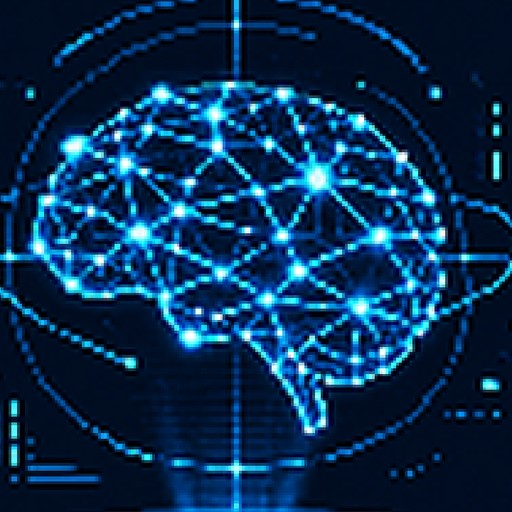
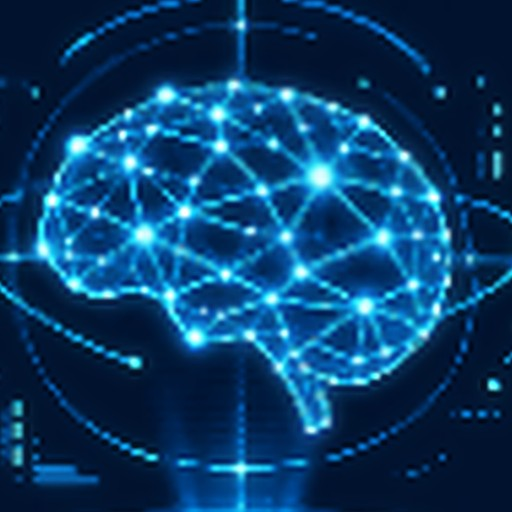
ARIA's picture: smooth hologram, no screen-door grid
Claude-Session: https://claude.ai/code/session_01QsU1qWh9Lm4CoQ2smq7FHb

diff --git a/docs/HANDOFF.md b/docs/HANDOFF.md
@@ -1,6 +1,6 @@
 # Handoff (read this first when a session starts; update it before parking)
 
-Last updated: 2026-11-27. Branch to work on: `tablet`. Repo: NickWest27/AquaNova (GitHub Pages path `/AquaNova/`). Last change: ARIA's picture rebuilt at the other portraits' pixel size (sampled on its 190x143 art grid, doubled smoothly; original kept as `art_src/crew/executiveOfficer_scene_v1.png`); held lines that already say Captain get no extra "Captain," in front; nav charts: the coast is a bold dark yellow (land), the 10 and 20 m contours light yellow (shallows, where charted). Before that sonar modes (owner, 2026-11-27). OFF (about 1 nm, contacts lost), PASSIVE (listening, the normal setting), ACTIVE: pings every 20 s; each ping is a ripple drawn on the SNR screen and the nav charts, spreading at 1.5 nm a second; once the first ripple has passed a vessel it is heard twice as far (traffic.js). Everyone hears a ping: poachers inside 24 nm run (`spooked`), other hostiles inside 36 nm come for us (`drawn`); Alex says so when he can see it. Active draws a little more power. The Active button is on the SNR page (centre pad, five buttons); Alex's Sonar orders are Go passive, Go active, Sonar off. The full sweep is now a mapping sweep with the survey sensors: +30 power while it runs, the chart filled in to 12 nm, it no longer helps hearing. Normal mapping is 4 nm whatever the sonar does (sim.fineNm). bubble_nm 20 to 28 (data/world/traffic.json). Tests: sonar_test (active, ripple reach, pings, sweep power and chart, poacher runs, hostile closes), seafloor_test. Before that docking and undocking say one message each (dock.js `sequence(text, sounds, done)`; the clamp and shore power sounds still play at their steps); Alex reports a hostile contact when first heard (as before) and again once it is identified, if it was unidentified at first (traffic.js `identSaid`). dock_sleep_test fixed (reads Marcus's held message). notices_test is out of date (written for the old overhead stack, `.bt-stack`), needs rewriting. Before that bridge overhead panel: battery dropped from the status line; notices queue (one at a time, each held 5 to 12 s by length, repeats dropped, at most 6 waiting; `readMs` in bridge.js). Before that ARIA no longer announces a new mission (no 'New task' and no 'New Mission Started'); she congratulates the Captain 5 s after a mission completes, mentioning the report when one went out in the last 15 s (app.js, mission-notify). She only speaks: the report transfer and OERA's reply mail keep their own timing. Before that no status strip and no line at the foot of the screen (owner, 2026-11-27). The status strip (`.dock`) is hidden everywhere (the bridge's overhead panel carries position, time and battery). A crew line that does not open the dialogue (a reply to a button, an action report) goes to that crew member's communicator log and the pin pulses (`pin-pulse` event); on the bridge it is still a notice on the overhead console; a line from the crew member you are talking to just appears in the dialogue (behind Continue). `toast()` confirmations from PED and logbook buttons (Note saved, Copied, Export failed) still use the foot line. Tests updated: aria_test, unlock_test, dock_sleep_test read the communicator log. Before that who reports the launch bay (owner, 2026-11-27): Lt. Washington (`security`) reports the Tern's launches and recoveries (away, alongside, aboard, readying, taking aboard, the Fetch Remora order and the Tern bringing Remora home) and a parted Remora tether; Dr. Patel (`science`) Remora's launches and recoveries; Alex (`sensors`) everything WSKR (the tether-blocks-the-doors line moved from Chief Doyle). The Tern's mission lines (ashore, low battery, adrift) stay with Marcus; her radio calls with Nicole. Before that sounds limited to their rooms (owner, 2026-11-27; `HEARD_IN` and `play()` in app.js): sonar new/lost contact, depth warning and the teletype only on the bridge; launch bay hatches, flooding, pumping, launches only in the launch bay (the bay loop keeps running silently, so walking in you hear it); the engine room loop only in engineering; the hull (impacts, crash, groans, diving, docking clamps), alarms, the drive, sonar pings, doors and the communicator everywhere. Before that new walkway pictures (owner, 2026-11-27; old ones kept as `art_src/rooms/walkway*_original_v1.jpg`). A1: straight corridor, BRIDGE at the end, Science near left, Medical far left, Quarters near right (signs on the black panels; the far right door unused). AN-1: Launch Bay is the left end door, Engineering the near right door (the right end door, near left door and ladder unused). Pre-existing failures noticed: `science_test`, `bridge_test` (fail the same without this change). Before that docking sounds (owner, 2026-11-27: metallic thuds): `dockBump`, `dockClamps`, `clampRelease`, `shorePower`, played on the steps of the dock sequence (dock.js); room doors open, then shut behind (walkway to walkway has no door). Before that launch bay cycle sounds (owner, 2026-11-27: hatches are quick, equalising takes time): `BAY_PLAN` in app.js plays cues at fractions of the bay op (game time). Launch: inner hatch open, close, flood loop (most of the 60 s), outer hatch open, the craft goes, outer hatch closes. Recovery: outer hatch open, close, pump-out loop, inner hatch open, close. Full volume in the launch bay, 30% elsewhere. New sounds `hatchOpen`, `hatchClose`, loops `bayFlood`, `bayPump`. Impact, crash and distant explosion get soft saturation (`DRIVE` in sfx.js) so they read on iPad speakers. Test `tools/bay_sound_test.py` (uses `window.__sfxLog` in audio.js). Before that sounds (owner, 2026-11-27): the interface sounds (communicator chirp, mail open/close, notice, action tick, data up/down/done/fail) moved from audio.js into sfx.js, so the sound board has them (audio.js plays them through its sliders); general quarters gong removed; crash, hull groan, power up and power down remade; impact and distant explosion heavier; the fan loop is now `hullFlow`, water past the hull, played by audio.js on the Ship slider and louder with speed; `shipHum` and `ventilation` loops on the board. Newly wired in app.js: power down (super cruise off), depth warning (depth cap), sonar new contact / contact lost (events from sonar.js, at most one blip per 4 s), launch bay flooding (launch) and draining (recovery), WSKR launch whoosh, bubbles when the Tern or Remora leaves, bubbles diving and a splash surfacing, hull groans below 400 m every few minutes, teletype for an incoming message; impact/crash only on a real hit (not the map edge or AO warning). Not wired yet: distant explosion, radio beep, button press/error, radio static, reactor hum. Before that Alex's dialogue picture and face (`sensors`); Marcus and Alex: their consoles are matched to the bridge colours, the plain backdrop stays dark and blank for the text (`PLAIN` in `tools/crew_art.py`; a blurred bridge backdrop was tried and dropped by the owner: wrong sense of where they sit). Before that crew scene backgrounds shifted toward their room's colours (bridge, engineering, launch bay; figure kept as drawn; masks `art_src/crew/<id>_mask.png`, `ROOM` and `BG_STRENGTH` in `tools/crew_art.py`). Before that new crew scene pictures (Marcus over the shoulder, replacing the first one, kept as `art_src/crew/helm_scene_v1.png`; Chief Doyle; Lt. Washington), made by `tools/crew_art.py`; text box per picture in `SCENE_BOX` (Marcus right but short of his hand, Washington left, Doyle across the bottom with the choices in two columns). Before that desk pads are banks of five (range buttons gone, the yellow keys do range; SNR contact buttons Scan, Probe, Clear moved to the right pad, Investigate renamed Probe; the Sensors station keeps its own − RANGE +). Open: the left pad still has six pages (TAC is a stub). Before that bridge desk (owner, 2026-11-27): the three desk pads are warped to the slant of their holes; DSP moved from the right pad to the round trackpad (lamp lit while on); the two yellow keys left of the centre display are RANGE + / − with the signs printed on; the overhead panel carries the status (position, date, time, BAT) and the screen-edge strip is hidden on the bridge; before that sound board in the PED (Settings > Sound > Sound board opens it full screen over the game; the buttons live in `tablet/js/soundboardKit.js`, shared with the stand-alone page `tablet/soundboard.html`, published at `.../AquaNova/tablet/tablet/soundboard.html`: note the double `tablet`); before that sound board for the owner (every sound in sfx.js and the theme on a button, rename and Copy names); before that NEW BRIDGE FRAME (the owner's picture of 2026-11-27, 1024x765, holes cut from its painted checkerboard; source `art_src/rooms/bridge_original.png`, colour-matched by `tools/even_palette.py`, Retro copy snapped from it). Marcus at the centre helm (tap him to talk; his left monitor opens the Helm station; his two small monitors show heading/speed and depth/floor), Nicole left, Alex right. The three desk pads are one row each: HLM's depth and cruise buttons moved to the right pad. The status strip moves to the top on the bridge (`body.on-bridge`). Walkway exit: bottom-left corner. Before that: 16-bit sound effects library (`tablet/js/sfx.js`, 32 sounds; previews `docs/audio/sfx/`, reel `docs/audio/sfx_reel.mp3` + `.txt`, rendered by `tools/render_sfx.py`; Effects slider in PED Settings). Wired: general alarm, impact/crash, fire and flooding alarms, super cruise power-up and engage, emergency blow, sonar sweep ping, doors between rooms, the engine room loop, radio squelch when the communicator opens; before that short crew lines show as notices on the bridge's overhead console (two lines, whole panel); ARIA's hints wait at least a minute; bigger overhead and nav log text; the vertical profile uses the nav screen's colours (warning yellow and red kept); before that every crew message opens the dialogue (hints, reports, objective lines); only the reply to a button press (`tell()`) and action ticks stay a short line at the foot of the screen (notify.js); before that main title "Beneath the Waves" (original, 16-bit style, `tablet/js/theme.js`; PED Settings > Play theme; render with `tools/render_theme.py` to `docs/audio/aqua_nova_theme.mp3`); before that the communicator never replaces what the Captain is reading: new lines wait behind "Continue" (crew.js readTo); before that fixed Restart from the beginning (a new game was no longer recognised because 'pick up the communicator' now starts as waiting; `commsLocked` in app.js; test `tools/restart_test.py`); before that no discovery notes in the logbook (arrivals to the PED Journal, records to PED Findings); before that one task at a time (objective status 'waiting' until the step before is done; follow-on missions start after a short saved pause; the PED shows done steps, the current one and how many are to come); super cruise spools up for 8 s and eases in and out, any other power setting drops it; Route editor Edit button and a degrees-and-minutes read-back in the waypoint dialog; the trials escort (OERA Seaward, CGC Vigilant) on AIS; the 300 m depth is a certification step (story bible); before that route planner fix (trips over about 120 nm fell off the search grid and were reported as blocked: `route.js` now grows its cells on long trips; test in `tools/route_test.mjs`); the commissioning orders give the AO's centre point, not its corners; before that walkway A1, walkway AN-1 and medbay back to the colour-matched pictures (a pixel-art rebuild by filter looked smudged; they need redrawing to be as crisp as the launch bay); stray speckles removed from the Retro copies; BRIDGE sign on A1 drawn by the game; before that rooms open with the story and crew join the communicator when their room is visited (`rooms.js`, see `docs/COMMS_AND_PROGRESSION.md`); ARIA's bridge introduction; before that crew renamed (Lt. Andre Washington for security, Chief Engineer Ryan Doyle; see `docs/STORY_BIBLE.md`); the Captain's lines in the communicator are conversational (`SAY` in `stations/crew.js`); Call another station; Take me to my quarters removed; before that communicator menu tidied and First Contact completes on ARIA's introduction (see `docs/HELM_AND_ORDERS.md`); before that portraits and dialogue screens for Marcus, ARIA and Dr. Patel (`tools/crew_art.py`, sources in `art_src/crew/`; text box side per picture: `SCENE_BOX` in art.js); before that room pictures evened out to the Engineering picture's brightness and colour (`tools/even_palette.py`; the untouched originals are in `art_src/rooms/`, outside the served folders: a new room picture goes there first, then run the script, which also remakes the Retro copies); bigger crew tap areas on the bridge; before that the owner's testing list (below, all 18 items); before that the quarters wall screen cycles NAV, synthetic vision, sonar, WSKRs and ship status (`quartersScreen.js`, tap = next page, 10 s each; test `tools/quarters_screen_test.py`); pushing the trials for records with a risk of light damage (`trials.js`); story bible brought up to date; before that Sea Trials became the commissioning trip to the Trials AO (welcome letter in the logbook, commissioning orders by mail, Welcome to the AO mail; nav, eng and super cruise commissioned in steps; see the tutorial table in `docs/COMMS_AND_PROGRESSION.md`); before that the owner's welcome letter in the logbook; before that general alarm (ARIA order + engineering button; red lighting and frames; faster fire/flood response if sounded first; see `docs/ENGINEERING.md`); before that the Engineering room shows the ship's state (core glow amber/red, live console screens, red alarm for fire/flooding; see `docs/ENGINEERING.md`); before that the engineering computer; before that the 90s dialogue screen for Nicole; before that Nicole's portrait; before that walkway AN-1 and Engineering on the owner's pictures (every room is now 4:3); before that site survey (`survey.js`, Survey site on SONAR, Seabed survey missions) and the XO tends Remora before getting under way; before that Remora's tether parts past its length, the Tern fetches her (`tools/tether_test.py`); before that PED, communicator and corner buttons in the 4:3 box; before that Launch Bay as instruments, WSKRs have their own launch bays, standard target readout (`readout.js`), Full sweep 36 s; before that station pages are a 4:3 page (1024 x 768) scaled like the stage; before that pages fit the screen (`tools/fit_test.py`) and Sensors has SONAR and WSKRs only; before that contact tracking (detection chance, names belong to tracks, probable matches, signatures on file: `docs/CONTACT_TRACKING.md`); before that identified ships saved; before that one zoom direction everywhere ("+" zooms in) and round map zoom buttons; before that the bridge original picture with real transparent holes; before that the medbay on the owner's picture (after bridge, walkway A1, quarters, science lab, launch bay).
+Last updated: 2026-11-27. Branch to work on: `tablet`. Repo: NickWest27/AquaNova (GitHub Pages path `/AquaNova/`). Last change: ARIA's picture rebuilt smooth with no screen-door grid (averaged on its 190x143 art grid, dark texture calmed, enlarged smoothly, sharpened, soft glow; original kept as `art_src/crew/executiveOfficer_scene_v1.png`); held lines that already say Captain get no extra "Captain," in front; nav charts: the coast is a bold dark yellow (land), the 10 and 20 m contours light yellow (shallows, where charted). Before that sonar modes (owner, 2026-11-27). OFF (about 1 nm, contacts lost), PASSIVE (listening, the normal setting), ACTIVE: pings every 20 s; each ping is a ripple drawn on the SNR screen and the nav charts, spreading at 1.5 nm a second; once the first ripple has passed a vessel it is heard twice as far (traffic.js). Everyone hears a ping: poachers inside 24 nm run (`spooked`), other hostiles inside 36 nm come for us (`drawn`); Alex says so when he can see it. Active draws a little more power. The Active button is on the SNR page (centre pad, five buttons); Alex's Sonar orders are Go passive, Go active, Sonar off. The full sweep is now a mapping sweep with the survey sensors: +30 power while it runs, the chart filled in to 12 nm, it no longer helps hearing. Normal mapping is 4 nm whatever the sonar does (sim.fineNm). bubble_nm 20 to 28 (data/world/traffic.json). Tests: sonar_test (active, ripple reach, pings, sweep power and chart, poacher runs, hostile closes), seafloor_test. Before that docking and undocking say one message each (dock.js `sequence(text, sounds, done)`; the clamp and shore power sounds still play at their steps); Alex reports a hostile contact when first heard (as before) and again once it is identified, if it was unidentified at first (traffic.js `identSaid`). dock_sleep_test fixed (reads Marcus's held message). notices_test is out of date (written for the old overhead stack, `.bt-stack`), needs rewriting. Before that bridge overhead panel: battery dropped from the status line; notices queue (one at a time, each held 5 to 12 s by length, repeats dropped, at most 6 waiting; `readMs` in bridge.js). Before that ARIA no longer announces a new mission (no 'New task' and no 'New Mission Started'); she congratulates the Captain 5 s after a mission completes, mentioning the report when one went out in the last 15 s (app.js, mission-notify). She only speaks: the report transfer and OERA's reply mail keep their own timing. Before that no status strip and no line at the foot of the screen (owner, 2026-11-27). The status strip (`.dock`) is hidden everywhere (the bridge's overhead panel carries position, time and battery). A crew line that does not open the dialogue (a reply to a button, an action report) goes to that crew member's communicator log and the pin pulses (`pin-pulse` event); on the bridge it is still a notice on the overhead console; a line from the crew member you are talking to just appears in the dialogue (behind Continue). `toast()` confirmations from PED and logbook buttons (Note saved, Copied, Export failed) still use the foot line. Tests updated: aria_test, unlock_test, dock_sleep_test read the communicator log. Before that who reports the launch bay (owner, 2026-11-27): Lt. Washington (`security`) reports the Tern's launches and recoveries (away, alongside, aboard, readying, taking aboard, the Fetch Remora order and the Tern bringing Remora home) and a parted Remora tether; Dr. Patel (`science`) Remora's launches and recoveries; Alex (`sensors`) everything WSKR (the tether-blocks-the-doors line moved from Chief Doyle). The Tern's mission lines (ashore, low battery, adrift) stay with Marcus; her radio calls with Nicole. Before that sounds limited to their rooms (owner, 2026-11-27; `HEARD_IN` and `play()` in app.js): sonar new/lost contact, depth warning and the teletype only on the bridge; launch bay hatches, flooding, pumping, launches only in the launch bay (the bay loop keeps running silently, so walking in you hear it); the engine room loop only in engineering; the hull (impacts, crash, groans, diving, docking clamps), alarms, the drive, sonar pings, doors and the communicator everywhere. Before that new walkway pictures (owner, 2026-11-27; old ones kept as `art_src/rooms/walkway*_original_v1.jpg`). A1: straight corridor, BRIDGE at the end, Science near left, Medical far left, Quarters near right (signs on the black panels; the far right door unused). AN-1: Launch Bay is the left end door, Engineering the near right door (the right end door, near left door and ladder unused). Pre-existing failures noticed: `science_test`, `bridge_test` (fail the same without this change). Before that docking sounds (owner, 2026-11-27: metallic thuds): `dockBump`, `dockClamps`, `clampRelease`, `shorePower`, played on the steps of the dock sequence (dock.js); room doors open, then shut behind (walkway to walkway has no door). Before that launch bay cycle sounds (owner, 2026-11-27: hatches are quick, equalising takes time): `BAY_PLAN` in app.js plays cues at fractions of the bay op (game time). Launch: inner hatch open, close, flood loop (most of the 60 s), outer hatch open, the craft goes, outer hatch closes. Recovery: outer hatch open, close, pump-out loop, inner hatch open, close. Full volume in the launch bay, 30% elsewhere. New sounds `hatchOpen`, `hatchClose`, loops `bayFlood`, `bayPump`. Impact, crash and distant explosion get soft saturation (`DRIVE` in sfx.js) so they read on iPad speakers. Test `tools/bay_sound_test.py` (uses `window.__sfxLog` in audio.js). Before that sounds (owner, 2026-11-27): the interface sounds (communicator chirp, mail open/close, notice, action tick, data up/down/done/fail) moved from audio.js into sfx.js, so the sound board has them (audio.js plays them through its sliders); general quarters gong removed; crash, hull groan, power up and power down remade; impact and distant explosion heavier; the fan loop is now `hullFlow`, water past the hull, played by audio.js on the Ship slider and louder with speed; `shipHum` and `ventilation` loops on the board. Newly wired in app.js: power down (super cruise off), depth warning (depth cap), sonar new contact / contact lost (events from sonar.js, at most one blip per 4 s), launch bay flooding (launch) and draining (recovery), WSKR launch whoosh, bubbles when the Tern or Remora leaves, bubbles diving and a splash surfacing, hull groans below 400 m every few minutes, teletype for an incoming message; impact/crash only on a real hit (not the map edge or AO warning). Not wired yet: distant explosion, radio beep, button press/error, radio static, reactor hum. Before that Alex's dialogue picture and face (`sensors`); Marcus and Alex: their consoles are matched to the bridge colours, the plain backdrop stays dark and blank for the text (`PLAIN` in `tools/crew_art.py`; a blurred bridge backdrop was tried and dropped by the owner: wrong sense of where they sit). Before that crew scene backgrounds shifted toward their room's colours (bridge, engineering, launch bay; figure kept as drawn; masks `art_src/crew/<id>_mask.png`, `ROOM` and `BG_STRENGTH` in `tools/crew_art.py`). Before that new crew scene pictures (Marcus over the shoulder, replacing the first one, kept as `art_src/crew/helm_scene_v1.png`; Chief Doyle; Lt. Washington), made by `tools/crew_art.py`; text box per picture in `SCENE_BOX` (Marcus right but short of his hand, Washington left, Doyle across the bottom with the choices in two columns). Before that desk pads are banks of five (range buttons gone, the yellow keys do range; SNR contact buttons Scan, Probe, Clear moved to the right pad, Investigate renamed Probe; the Sensors station keeps its own − RANGE +). Open: the left pad still has six pages (TAC is a stub). Before that bridge desk (owner, 2026-11-27): the three desk pads are warped to the slant of their holes; DSP moved from the right pad to the round trackpad (lamp lit while on); the two yellow keys left of the centre display are RANGE + / − with the signs printed on; the overhead panel carries the status (position, date, time, BAT) and the screen-edge strip is hidden on the bridge; before that sound board in the PED (Settings > Sound > Sound board opens it full screen over the game; the buttons live in `tablet/js/soundboardKit.js`, shared with the stand-alone page `tablet/soundboard.html`, published at `.../AquaNova/tablet/tablet/soundboard.html`: note the double `tablet`); before that sound board for the owner (every sound in sfx.js and the theme on a button, rename and Copy names); before that NEW BRIDGE FRAME (the owner's picture of 2026-11-27, 1024x765, holes cut from its painted checkerboard; source `art_src/rooms/bridge_original.png`, colour-matched by `tools/even_palette.py`, Retro copy snapped from it). Marcus at the centre helm (tap him to talk; his left monitor opens the Helm station; his two small monitors show heading/speed and depth/floor), Nicole left, Alex right. The three desk pads are one row each: HLM's depth and cruise buttons moved to the right pad. The status strip moves to the top on the bridge (`body.on-bridge`). Walkway exit: bottom-left corner. Before that: 16-bit sound effects library (`tablet/js/sfx.js`, 32 sounds; previews `docs/audio/sfx/`, reel `docs/audio/sfx_reel.mp3` + `.txt`, rendered by `tools/render_sfx.py`; Effects slider in PED Settings). Wired: general alarm, impact/crash, fire and flooding alarms, super cruise power-up and engage, emergency blow, sonar sweep ping, doors between rooms, the engine room loop, radio squelch when the communicator opens; before that short crew lines show as notices on the bridge's overhead console (two lines, whole panel); ARIA's hints wait at least a minute; bigger overhead and nav log text; the vertical profile uses the nav screen's colours (warning yellow and red kept); before that every crew message opens the dialogue (hints, reports, objective lines); only the reply to a button press (`tell()`) and action ticks stay a short line at the foot of the screen (notify.js); before that main title "Beneath the Waves" (original, 16-bit style, `tablet/js/theme.js`; PED Settings > Play theme; render with `tools/render_theme.py` to `docs/audio/aqua_nova_theme.mp3`); before that the communicator never replaces what the Captain is reading: new lines wait behind "Continue" (crew.js readTo); before that fixed Restart from the beginning (a new game was no longer recognised because 'pick up the communicator' now starts as waiting; `commsLocked` in app.js; test `tools/restart_test.py`); before that no discovery notes in the logbook (arrivals to the PED Journal, records to PED Findings); before that one task at a time (objective status 'waiting' until the step before is done; follow-on missions start after a short saved pause; the PED shows done steps, the current one and how many are to come); super cruise spools up for 8 s and eases in and out, any other power setting drops it; Route editor Edit button and a degrees-and-minutes read-back in the waypoint dialog; the trials escort (OERA Seaward, CGC Vigilant) on AIS; the 300 m depth is a certification step (story bible); before that route planner fix (trips over about 120 nm fell off the search grid and were reported as blocked: `route.js` now grows its cells on long trips; test in `tools/route_test.mjs`); the commissioning orders give the AO's centre point, not its corners; before that walkway A1, walkway AN-1 and medbay back to the colour-matched pictures (a pixel-art rebuild by filter looked smudged; they need redrawing to be as crisp as the launch bay); stray speckles removed from the Retro copies; BRIDGE sign on A1 drawn by the game; before that rooms open with the story and crew join the communicator when their room is visited (`rooms.js`, see `docs/COMMS_AND_PROGRESSION.md`); ARIA's bridge introduction; before that crew renamed (Lt. Andre Washington for security, Chief Engineer Ryan Doyle; see `docs/STORY_BIBLE.md`); the Captain's lines in the communicator are conversational (`SAY` in `stations/crew.js`); Call another station; Take me to my quarters removed; before that communicator menu tidied and First Contact completes on ARIA's introduction (see `docs/HELM_AND_ORDERS.md`); before that portraits and dialogue screens for Marcus, ARIA and Dr. Patel (`tools/crew_art.py`, sources in `art_src/crew/`; text box side per picture: `SCENE_BOX` in art.js); before that room pictures evened out to the Engineering picture's brightness and colour (`tools/even_palette.py`; the untouched originals are in `art_src/rooms/`, outside the served folders: a new room picture goes there first, then run the script, which also remakes the Retro copies); bigger crew tap areas on the bridge; before that the owner's testing list (below, all 18 items); before that the quarters wall screen cycles NAV, synthetic vision, sonar, WSKRs and ship status (`quartersScreen.js`, tap = next page, 10 s each; test `tools/quarters_screen_test.py`); pushing the trials for records with a risk of light damage (`trials.js`); story bible brought up to date; before that Sea Trials became the commissioning trip to the Trials AO (welcome letter in the logbook, commissioning orders by mail, Welcome to the AO mail; nav, eng and super cruise commissioned in steps; see the tutorial table in `docs/COMMS_AND_PROGRESSION.md`); before that the owner's welcome letter in the logbook; before that general alarm (ARIA order + engineering button; red lighting and frames; faster fire/flood response if sounded first; see `docs/ENGINEERING.md`); before that the Engineering room shows the ship's state (core glow amber/red, live console screens, red alarm for fire/flooding; see `docs/ENGINEERING.md`); before that the engineering computer; before that the 90s dialogue screen for Nicole; before that Nicole's portrait; before that walkway AN-1 and Engineering on the owner's pictures (every room is now 4:3); before that site survey (`survey.js`, Survey site on SONAR, Seabed survey missions) and the XO tends Remora before getting under way; before that Remora's tether parts past its length, the Tern fetches her (`tools/tether_test.py`); before that PED, communicator and corner buttons in the 4:3 box; before that Launch Bay as instruments, WSKRs have their own launch bays, standard target readout (`readout.js`), Full sweep 36 s; before that station pages are a 4:3 page (1024 x 768) scaled like the stage; before that pages fit the screen (`tools/fit_test.py`) and Sensors has SONAR and WSKRs only; before that contact tracking (detection chance, names belong to tracks, probable matches, signatures on file: `docs/CONTACT_TRACKING.md`); before that identified ships saved; before that one zoom direction everywhere ("+" zooms in) and round map zoom buttons; before that the bridge original picture with real transparent holes; before that the medbay on the owner's picture (after bridge, walkway A1, quarters, science lab, launch bay).
 
 ## Owner's testing list (2026-11-26): all done 2026-11-27, waiting for the owner to test on the iPad
 Rooms and signs
